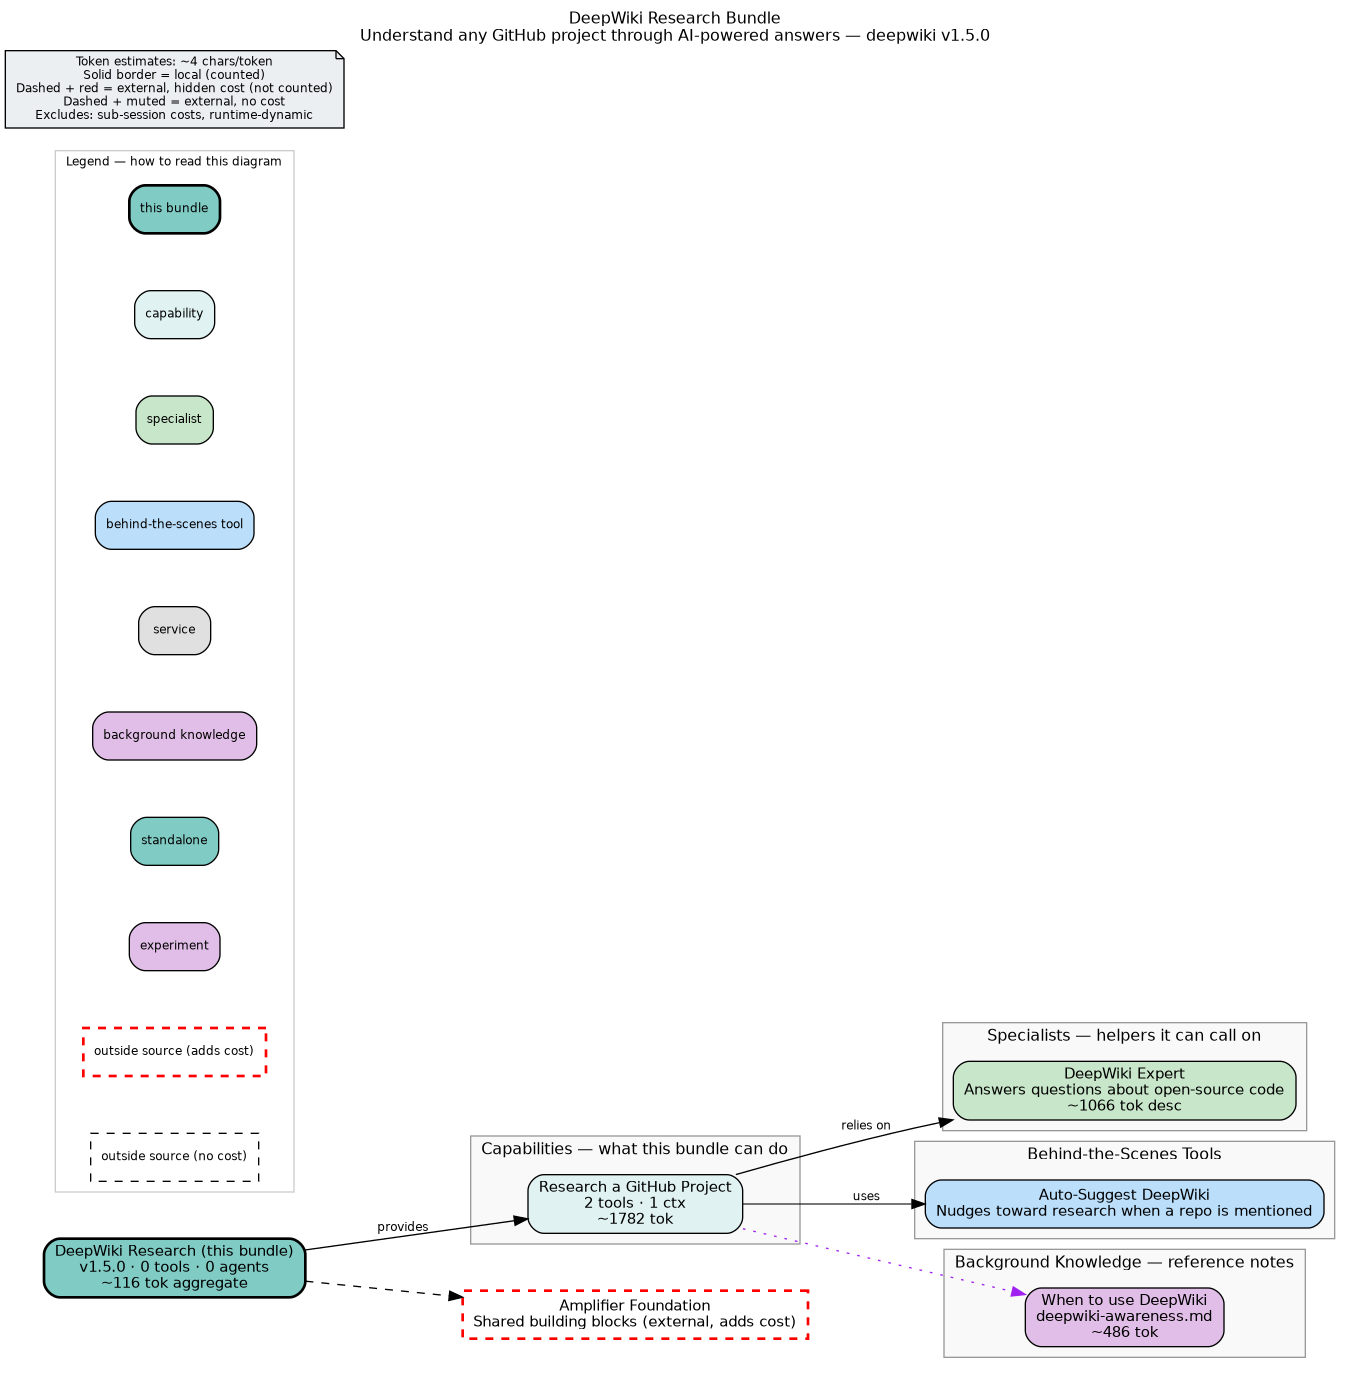
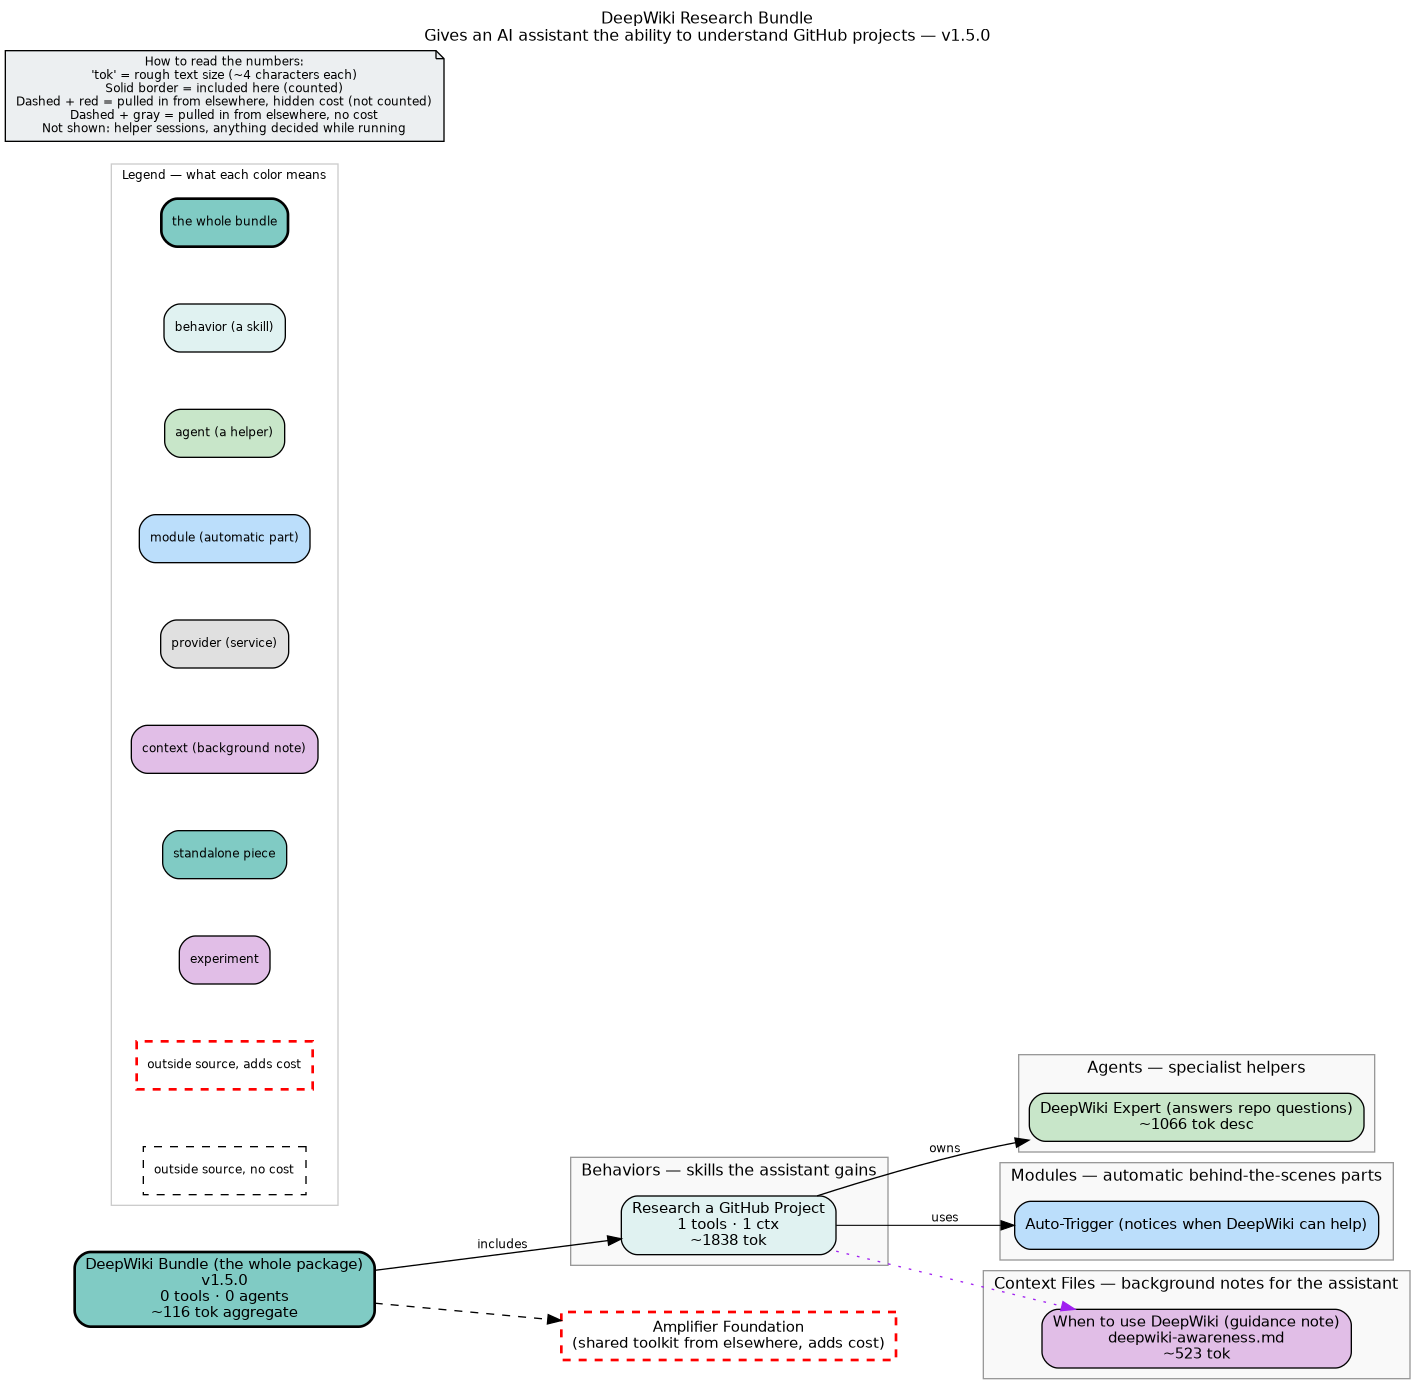
refactor: scope DeepWiki MCP to the expert agent only (remove root-level exposure)
Consolidates the DeepWiki MCP server so it is configured only in agents/deepwiki-expert.md (the sub-session that actually uses it) and no longer exposed into root sessions via the behavior. The behavior is now a pure thin pointer (hook + agent include + thin awareness, zero root-level tool surface); root sessions delegate to deepwiki-expert rather than calling mcp_deepwiki_* directly. This eliminates the prior dual-config drift risk. Root-facing docs updated to reflect the scoping.

Verification:
- validate-bundle-repo (v3.6.0): PASS with 0 errors — tool-placement now confirms the MCP surface is correctly scoped to the agent sub-session
- bundle.dot regenerated and fresh
- 155 hook tests unaffected (no module code changed this round)

Generated with Amplifier

diff --git a/CHANGELOG.md b/CHANGELOG.md
@@ -7,6 +7,16 @@ and this project adheres to [Semantic Versioning](https://semver.org/spec/v2.0.0
 
 ## [1.5.0] - 2026-05-31
 
+### Changed — MCP Tool Placement (context-sink purity)
+- **DeepWiki MCP server consolidated to the expert agent only.** Removed the `tool-mcp`
+  block from `behaviors/deepwiki.yaml` so the raw `mcp_deepwiki_*` tools are no longer
+  exposed to root sessions. The server remains configured in `agents/deepwiki-expert.md`,
+  where it belongs — root sessions delegate to the expert rather than calling MCP directly.
+  This removes the previous dual-config drift risk and makes the behavior a pure thin
+  pointer (hook + agent + thin awareness, zero root-level tool surface). Root-facing docs
+  (`README.md`, `docs/USAGE.md`, `context/deepwiki-awareness.md`) updated to state the MCP
+  tools are scoped to the agent sub-session.
+
 ### Changed — Setup Docs & Delegation Wording
 - **README/USAGE setup instructions** — added the recommended `--app` layering path
   (`amplifier bundle add … --app`) so users can add DeepWiki on top of their existing

diff --git a/docs/USAGE.md b/docs/USAGE.md
@@ -62,9 +62,11 @@ open-source projects. It's automatically available for delegation.
 - "How can I extend [framework]?"
 - "What's the best way to integrate with [library]?"
 
-### MCP Tools
+### MCP Tools (scoped to the expert agent)
 
-Three DeepWiki tools are available:
+The DeepWiki MCP server is configured **inside the `deepwiki-expert` sub-session**, not the
+root session. You delegate to the expert and it calls these tools internally — they are not
+exposed for direct use in your root session:
 
 | Tool | Description |
 |------|-------------|

diff --git a/README.md b/README.md
@@ -116,7 +116,11 @@ This bundle integrates with the **DeepWiki MCP Server** using the
 
 ![Bundle Architecture](context/architecture.svg)
 
-### MCP Tools Provided
+### MCP Tools (used by the expert agent)
+
+These DeepWiki MCP tools are scoped to the `deepwiki-expert` sub-session — they are **not**
+exposed to your root session. Root sessions delegate to the expert, which calls them
+internally. This keeps the behavior a thin pointer with zero root-level MCP surface.
 
 | Tool | Description |
 |------|-------------|

diff --git a/context/deepwiki-awareness.md b/context/deepwiki-awareness.md
@@ -35,4 +35,4 @@ Use `deepwiki:deepwiki-expert` rather than MCP tools directly. The expert has fr
 ## Quick Reference
 
 - Repo format: `owner/repo` (e.g., `facebook/react`) — public repos only
-- Tools: `mcp_deepwiki_ask_question` (fast), `read_wiki_structure`, `read_wiki_contents`
+- The DeepWiki MCP tools (`mcp_deepwiki_ask_question`, `read_wiki_structure`, `read_wiki_contents`) live **inside the `deepwiki-expert` sub-session**, not the root session. Delegate to the expert — don't try to call them directly here.
